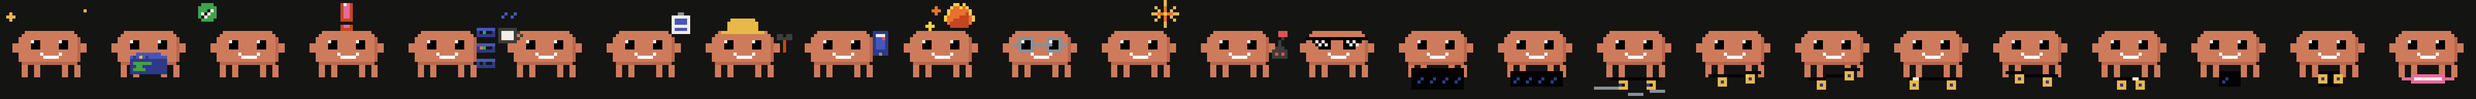
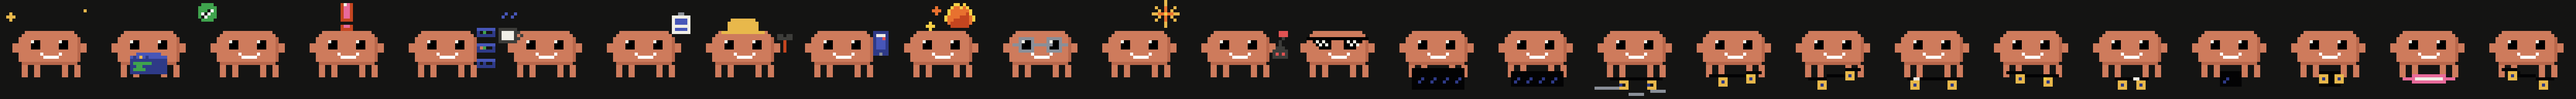
He learns the nose manual, the manual seen in a mirror

diff --git a/Sources/ClaudePet/View/CrabView.swift b/Sources/ClaudePet/View/CrabView.swift
@@ -125,7 +125,9 @@ public enum CrabAnimator {
              // The board comes round a whole turn and he comes round with it.
              bigspin,
              // The two 360 flips — mirrors of each other in both axes.
-             treFlip, laserFlip
+             treFlip, laserFlip,
+             // The wheelie's mirror: nose planted, tail in the air.
+             noseManual
 
         /// Everything he does on a board. Six are tricks and one is a cruise,
         /// which is why this is not called `skateTricks` — he shouts after all
@@ -133,7 +135,7 @@ public enum CrabAnimator {
         /// does over an actual kickflip.
         static let skateBeats: Set<Flourish> = [.kickflip, .varialFlip, .cruise, .ollie,
                                                 .manual, .shoveIt, .nollie, .bigspin,
-                                                .treFlip, .laserFlip]
+                                                .treFlip, .laserFlip, .noseManual]
 
         var duration: Double {
             switch self {
@@ -159,6 +161,10 @@ public enum CrabAnimator {
             // The manual is a HOLD — balance needs time on the clock the
             // same way the ollie's hang does.
             case .manual: 2.6
+            // The same ride as the manual, and the same clock: the pair are
+            // mirrors and a different length would make one of them feel
+            // like the harder trick.
+            case .noseManual: 2.6
             case .shoveIt: 2.2
             // The same air as the flips: long enough for the board to come
             // round twice and for him to finish his own turn on the way out.
@@ -261,6 +267,10 @@ public enum CrabAnimator {
         .cruise: 2,
         .kickflip: 3, .ollie: 3, .manual: 3, .shoveIt: 3,
         .varialFlip: 4, .nollie: 4, .bigspin: 4, .treFlip: 4, .laserFlip: 4,
+        // Weighted with the manual it mirrors, not with the flips: it is a
+        // balance ride, and the pair reads best when they come round about
+        // as often as each other.
+        .noseManual: 3,
     ]
 
     /// Expanded from the weights, over `allCases` rather than over the
@@ -2362,6 +2372,33 @@ public enum CrabAnimator {
             if held > 0.45 { pose.bob = -1 }
             if held > 0.65 { pose.gazeX = 1 }
             if held > 0.85 { pose.eyes = .determined }
+
+        case .noseManual:
+            // 🛹 THE NOSE MANUAL — the wheelie's mirror. Front wheels down,
+            // TAIL in the air, and hold.
+            //
+            // Everything that made the manual work is kept and reflected: the
+            // board carries the pitch on its own eased envelope, he carries
+            // the concentration, and the four whole-pixel switches stay 0.2
+            // of `held` apart so no two of them land on one frame at 20fps.
+            //
+            // What changes is which end is up, and therefore where he looks
+            // and which way he braces. On a manual his weight is back and he
+            // watches the nose he has lifted; on a nose manual his weight is
+            // forward over a planted nose and the tail is the thing behind
+            // him, so the gaze goes the other way and the arms lead with the
+            // opposite side.
+            pose.prop = .skateboardNoseManual
+            pose.propVisibility = 1
+            pose.propPhase = progress
+            let heldNose = Ease.smoothstep(min(progress, 1 - progress) * 5)
+            let sawNose = sin(t * 6)
+            pose.armLeft = heldNose * (0.5 - 0.3 * sawNose)
+            pose.armRight = heldNose * (0.5 + 0.3 * sawNose)
+            if heldNose > 0.25 { pose.mouth = .flat }
+            if heldNose > 0.45 { pose.bob = -1 }
+            if heldNose > 0.65 { pose.gazeX = -1 }
+            if heldNose > 0.85 { pose.eyes = .determined }
 
         case .shoveIt:
             // The flat spin: he hops, the board does a half turn UNDERNEATH

diff --git a/Sources/ClaudePet/View/CrabRig.swift b/Sources/ClaudePet/View/CrabRig.swift
@@ -120,6 +120,9 @@ public struct CrabPose: Sendable, Equatable {
         case skateboardTre, skateboardLaser
         // Appended: the surfboard. Worn, like every board he stands on.
         case surfboard
+        // Appended: the NOSE MANUAL's board — the manual's wheelie reflected,
+        // front wheels planted and the tail stepping up behind him.
+        case skateboardNoseManual
 
         var isWorn: Bool {
             switch self {
@@ -2312,6 +2315,49 @@ public enum CrabRig {
                 for lane in 0..<3 {
                     let x = ((28 - rush + lane * 11) % 32 + 32) % 32
                     b.rect(x, 29, dash, 1, .shadow)
+                }
+            }
+
+        case .skateboardNoseManual:
+            // The nose wheelie: NOSE on the ground, tail stepping up through
+            // the same eased pitch the manual uses, front wheel planted and
+            // the back one riding the raised tail. Mirrored end for end, and
+            // nothing else changed — the pair should read as one trick done
+            // two ways, not as two tricks that happen to rhyme.
+            let p = min(1, max(0, pose.propPhase))
+            let pitch = Ease.smoothstep(min(p, 1 - p) * 5)
+            let rise = Int((3 * pitch).rounded())
+            let cx = 16 + dx, deckY = 25 + dy
+            let deckInk: PixelBuffer.Ink = pose.goldenBoard ? .yellow : .deck
+            let wheelInk: PixelBuffer.Ink = pose.goldenBoard ? .slate : .yellow
+            let yNose = deckY
+            let yMid = deckY - rise / 2
+            let yTail = deckY - rise
+            b.rect(cx + 3, yNose, 6, 1, deckInk)
+            b.rect(cx - 3, yMid, 6, 1, deckInk)
+            b.rect(cx - 8, yTail, 5, 1, deckInk)
+            if yNose - yMid > 1 { b.pixel(cx + 3, yMid + 1, deckInk) }
+            if yMid - yTail > 1 { b.pixel(cx - 3, yTail + 1, deckInk) }
+            for (hub, y) in [(cx + 4, yNose), (cx - 6, yTail)] {
+                b.rect(hub, y + 1, 3, 1, wheelInk)
+                b.pixel(hub, y + 2, wheelInk)
+                b.pixel(hub + 1, y + 2, bearingInk(golden: pose.goldenBoard))
+                b.pixel(hub + 2, y + 2, wheelInk)
+                b.rect(hub, y + 3, 3, 1, wheelInk)
+            }
+            if wheelShimmer(pose.propPhase * 2.6) {
+                b.pixel(cx + 4, yNose + 1, .flameCore)
+            }
+            // The same ground rush the manual rides, for the same reason: a
+            // nose manual ROLLS, and on a fixed camera the world moves rather
+            // than the rider. Without it the two halves of the pair read as
+            // different tricks — one travelling, one balanced on the spot.
+            let noseRush = Int((p * 34).rounded())
+            let noseDash = Int((3 * pitch).rounded())
+            if noseDash > 0 {
+                for lane in 0..<3 {
+                    let x = ((28 - noseRush + lane * 11) % 32 + 32) % 32
+                    b.rect(x, 29, noseDash, 1, .shadow)
                 }
             }
 

diff --git a/Tests/ClaudePetTests/TorsoTurnTests.swift b/Tests/ClaudePetTests/TorsoTurnTests.swift
@@ -628,4 +628,49 @@ struct TorsoTurnTests {
         }
     }
 
+
+    /// 🛹 **The nose manual is the manual, reflected.** Front wheels planted,
+    /// tail in the air — the mirror of the wheelie, and the pair should read
+    /// as one trick done two ways rather than two that happen to rhyme.
+    ///
+    /// Pinned on the DECK's slope rather than on the code, because the whole
+    /// claim is geometric: whichever end of the board is on the ground, the
+    /// other one is up, and the two tricks disagree about which is which.
+    @Test("The nose manual lifts the end the manual plants")
+    func theNoseManualMirrorsTheManual() {
+        func deckSlope(_ trick: CrabAnimator.Flourish, at progress: Double) -> Int? {
+            let pose = CrabAnimator.flourishPose(trick, at: progress * trick.duration)
+            let buffer = CrabRig.render(pose)
+            func topRow(_ range: Range<Int>) -> Int? {
+                for y in 0..<PixelBuffer.side {
+                    for x in range where buffer[x, y] == .deck { return y }
+                }
+                return nil
+            }
+            // Symmetric about the board's centre at x=16, or the comparison
+            // is not a mirror test: [8,13] reflects onto [19,24]. The first
+            // cut sampled 6..<14 against 18..<26 and reported the pair as
+            // 3 against 2 — an artefact of the windows, not the art.
+            guard let left = topRow(8..<14), let right = topRow(19..<25) else { return nil }
+            return left - right          // + means the RIGHT end is higher
+        }
+        // Mid-ride, where the pitch is fully up.
+        guard let manual = deckSlope(.manual, at: 0.5),
+              let nose = deckSlope(.noseManual, at: 0.5)
+        else {
+            Issue.record("one of the boards drew no deck at mid-ride")
+            return
+        }
+        #expect(manual > 0, "the manual should lift its NOSE — slope \(manual)")
+        #expect(nose < 0, "the nose manual should lift its TAIL — slope \(nose)")
+        #expect(manual == -nose,
+                "the pair are not mirrors: manual \(manual) against nose \(nose)")
+        // And he watches the opposite way in each.
+        let m = CrabAnimator.flourishPose(.manual, at: 0.5 * CrabAnimator.Flourish.manual.duration)
+        let n = CrabAnimator.flourishPose(.noseManual,
+                                          at: 0.5 * CrabAnimator.Flourish.noseManual.duration)
+        #expect(m.gazeX == -n.gazeX && m.gazeX != 0,
+                "his gaze should flip with the board: \(m.gazeX) against \(n.gazeX)")
+    }
+
 }

diff --git a/Tests/ClaudePetTests/PersonalityTests.swift b/Tests/ClaudePetTests/PersonalityTests.swift
@@ -123,10 +123,11 @@ struct PropInventoryTests {
     @Test("The prop strip publishes every prop")
     func propCountIsPinned() {
         // `.none` is a case but not a prop; the strip draws the rest.
-        // 25 since the surfboard joined (24 with the tre and laser, 22 with
-        // the bigspin, 21 with the nollie, 20 with the manual and shove-it).
+        // 26 since the nose manual joined (25 with the surfboard, 24 with the
+        // tre and laser, 22 with the bigspin, 21 with the nollie, 20 with the
+        // manual and shove-it).
         let drawn = CrabPose.Prop.allCases.filter { $0 != .none }
-        #expect(drawn.count == 25,
+        #expect(drawn.count == 26,
                 "the prop count moved — docs/media/props.png needs re-rendering")
         #expect(!CrabPose.Prop.allCases.contains { $0.rawValue == "zzz" },
                 "the sleeping z's were removed; the enum should not carry them")

diff --git a/Sources/ClaudePet/App/PaletteTricks.swift b/Sources/ClaudePet/App/PaletteTricks.swift
@@ -50,8 +50,8 @@ enum PaletteTricks {
     ]
 
     static let tricks: [CrabAnimator.Flourish] =
-        [.ollie, .kickflip, .varialFlip, .manual, .shoveIt, .nollie, .bigspin,
-         .treFlip, .laserFlip, .cruise]
+        [.ollie, .kickflip, .varialFlip, .manual, .noseManual, .shoveIt,
+         .nollie, .bigspin, .treFlip, .laserFlip, .cruise]
 
     /// Trick → (line, golden). All real lines; the reserved gold line pays
     /// for itself with a genuinely golden deck.
@@ -391,6 +391,7 @@ enum PaletteTricks {
         case .varialFlip: .skateboardVarial
         case .ollie: .skateboardOllie
         case .manual: .skateboardManual
+        case .noseManual: .skateboardNoseManual
         case .shoveIt: .skateboardShoveIt
         case .nollie: .skateboardNollie
         case .bigspin: .skateboardBigspin

diff --git a/README.md b/README.md
@@ -47,7 +47,7 @@ means an `ExitPlanMode` is sitting there waiting for your answer.
 **Thinking** just shows three dots. There's no honest label for that moment,
 so he doesn't pretend to have one.
 
-## ✨ Sixteen things he does when nobody asked
+## ✨ Seventeen things he does when nobody asked
 
 <table>
 <tr>
@@ -66,14 +66,14 @@ so he doesn't pretend to have one.
 </tr>
 <tr>
   <td align="center"><img src="docs/media/flourish-manual.gif" width="110"><br><strong>Manual</strong></td>
-  <td align="center"><img src="docs/media/flourish-shoveIt.gif" width="110"><br><strong>Shove-it</strong></td>
+  <td align="center"><img src="docs/media/flourish-noseManual.gif" width="110"><br><strong>Nose manual</strong></td>
   <td align="center"><img src="docs/media/flourish-nollie.gif" width="110"><br><strong>Nollie</strong></td>
   <td align="center"><img src="docs/media/flourish-bigspin.gif" width="110"><br><strong>Bigspin</strong></td>
   <td align="center"><img src="docs/media/flourish-treFlip.gif" width="110"><br><strong>Tre flip</strong></td>
 </tr>
 <tr>
   <td align="center"><img src="docs/media/flourish-laserFlip.gif" width="110"><br><strong>Laser flip</strong></td>
-  <td align="center"></td>
+  <td align="center"><img src="docs/media/flourish-shoveIt.gif" width="110"><br><strong>Shove-it</strong></td>
   <td align="center"></td>
   <td align="center"></td>
   <td align="center"></td>
@@ -231,7 +231,7 @@ no dependencies, no package manager.
 ---
 
 <div align="center">
-  <img src="docs/media/props.png" width="100%" alt="All twenty-five props in one strip: sparkles, terminal, check, bang, servers, mug, plan, hard hat, phone, fire, glasses, star, joystick, shades, ten skateboards and a surfboard">
+  <img src="docs/media/props.png" width="100%" alt="All twenty-six props in one strip: sparkles, terminal, check, bang, servers, mug, plan, hard hat, phone, fire, glasses, star, joystick, shades, eleven skateboards and a surfboard">
   <p><em>Every prop, from the same rig — no sprite sheet anywhere.</em></p>
   <p>Unofficial, and not affiliated with or endorsed by Anthropic.<br>
   MIT — see <a href="LICENSE">LICENSE</a>; trademark note in <a href="NOTICE.md">NOTICE.md</a>.</p>

diff --git a/docs/the-art.md b/docs/the-art.md
@@ -8,7 +8,7 @@ new pose is a few numbers instead of a new asset. The app icon renders from
 the same rig, so the two can never drift apart.
 
 <div align="center">
-  <img src="media/props.png" width="768" alt="All twenty-five props in one strip: sparkles, terminal, check, bang, servers, mug, plan, hard hat, phone, fire, glasses, star, joystick, shades, ten skateboards and a surfboard">
+  <img src="media/props.png" width="768" alt="All twenty-six props in one strip: sparkles, terminal, check, bang, servers, mug, plan, hard hat, phone, fire, glasses, star, joystick, shades, eleven skateboards and a surfboard">
 </div>
 
 <p align="center"><em>Every prop, from the same rig. No sprite sheet anywhere.</em></p>
